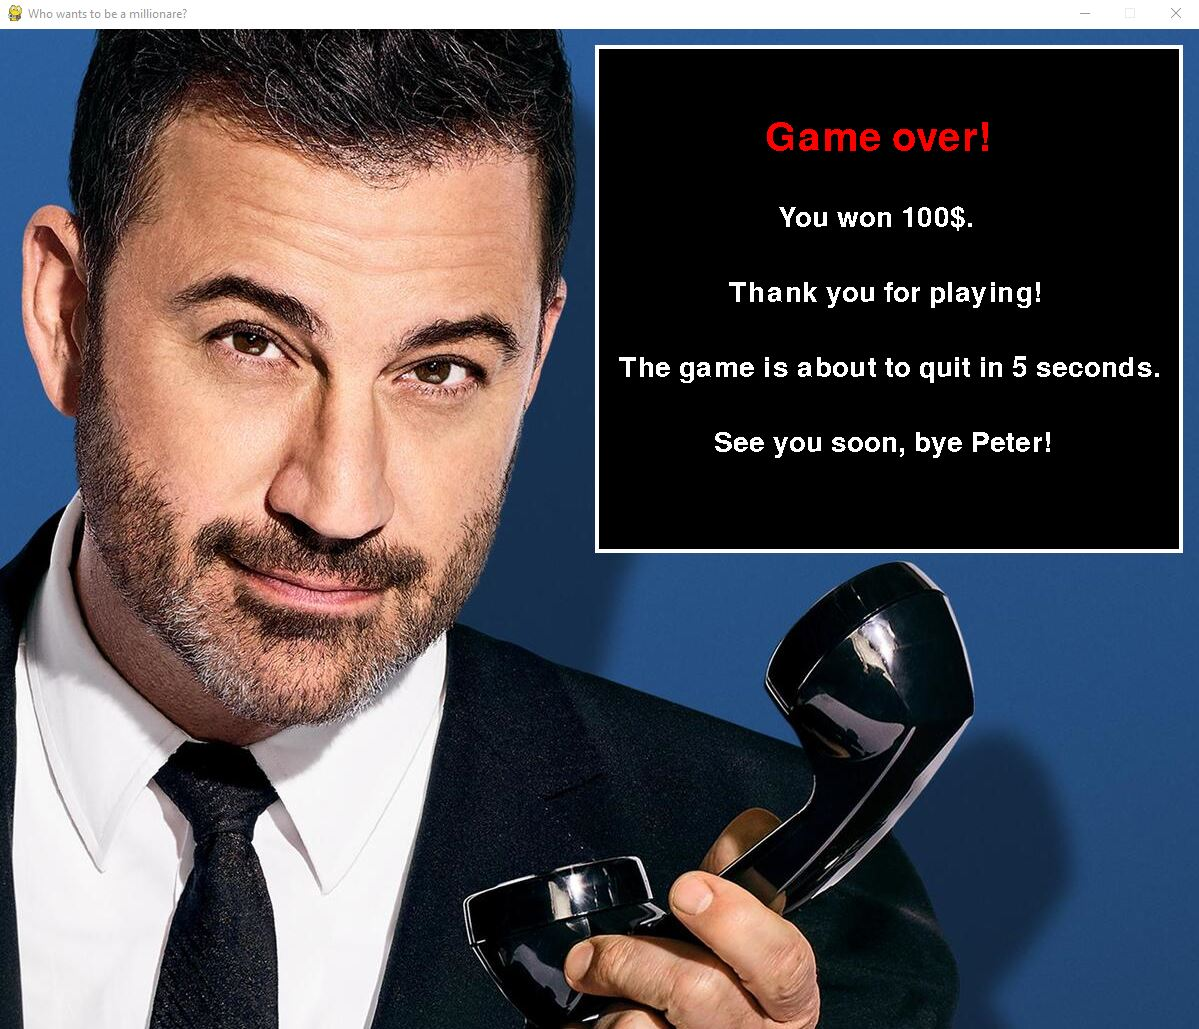
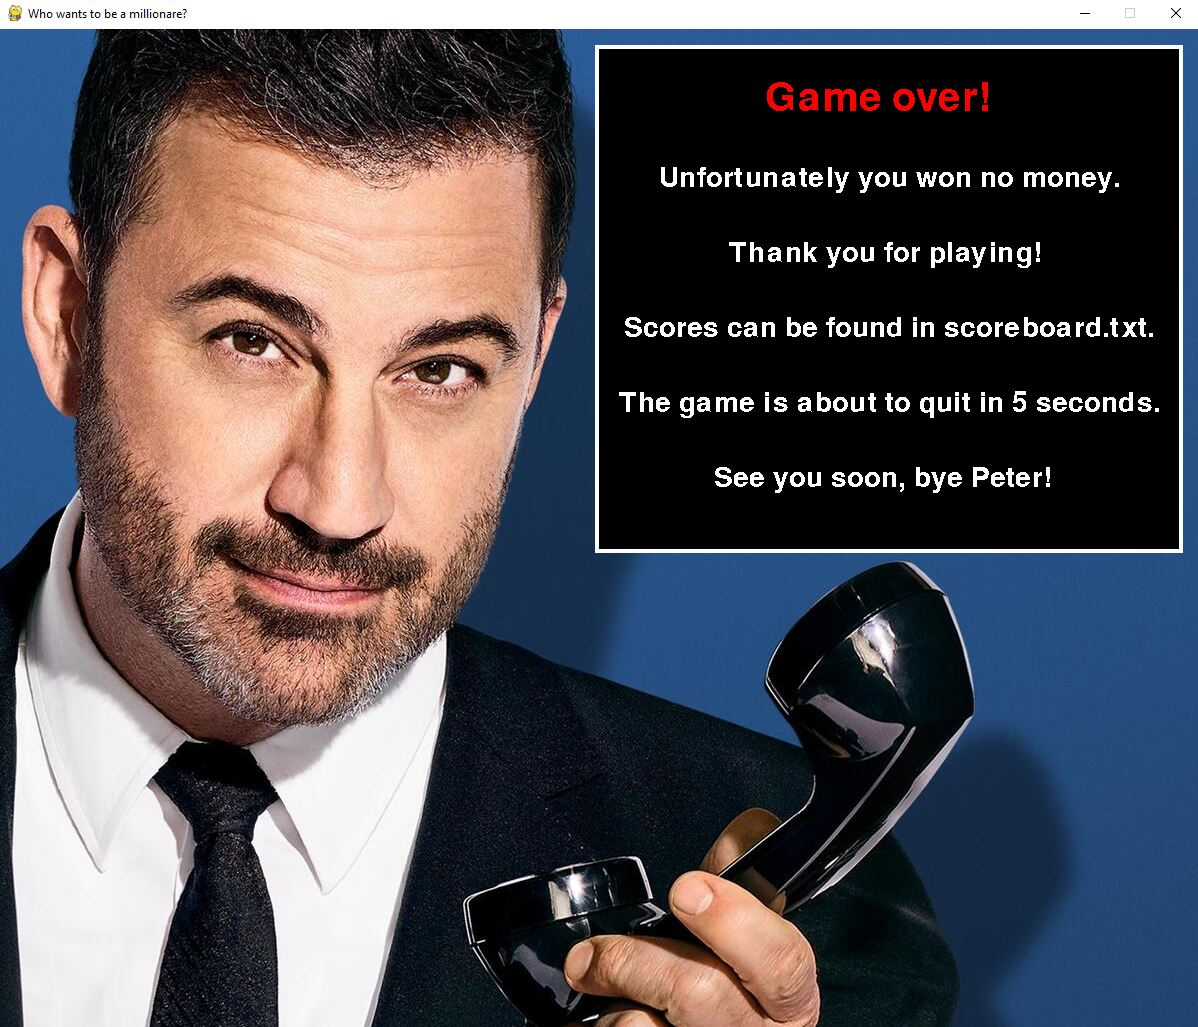
Created scoreboard

diff --git a/screens.py b/screens.py
@@ -4,6 +4,7 @@ from rectangular import *
 from constants import *
 import button
 from blur import blur
+from scoreboard import *
 
 # Pygame has no opportunity to handle the messages it gets from your operation system. To avoid that, you should call pygame.event.pump()
 
@@ -236,6 +237,7 @@ def gameover(screen, money) -> None:
         "Unfortunately you won no money.",
         f"You won {money}$.",
         "Thank you for playing!",
+        "Scores can be found in scoreboard.txt.",
         "The game is about to quit in 5 seconds.",
         f"See you soon, bye {name}!"
     ]
@@ -245,14 +247,19 @@ def gameover(screen, money) -> None:
     end_screen = Rectangular(600, 20, 580, 500, WHITE)
     end_screen.draw(screen)
 
-    create_text(screen, texts[0], (766, 90), 3)
+    create_text(screen, texts[0], (766, 50), 3)
     if money == 0:
-        create_text(screen, texts[1], (660, 175), 2)
+        create_text(screen, texts[1], (660, 135), 2)
     else:
-        create_text(screen, texts[2], (800 - c * 7, 175), 2)
-    create_text(screen, texts[3], (730, 250), 2)
-    create_text(screen, texts[4], (620, 325), 2)
-    create_text(screen, texts[5], (750 - len(name) * 7 , 400), 2)
+        create_text(screen, texts[2], (800 - c * 7, 135), 2)
+    create_text(screen, texts[3], (730, 210), 2)
+    create_text(screen, texts[4], (625, 285), 2)
+    create_text(screen, texts[5], (620, 360), 2)
+    create_text(screen, texts[6], (750 - len(name) * 7 , 435), 2)
+
+    scores = read_scores(scoreboard)
+    add_score(scores, name, money)
+    write_scores(scoreboard, scores)
 
     pygame.time.delay(2000)
     pygame.event.pump()
@@ -267,6 +274,7 @@ def winner(screen, money) -> None:
         "The game has ended. You won!",
         f"Your prize is {money}$.",
         "Thank you for playing!",
+        "Scores can be found in scoreboard.txt.",
         "The game is about to quit in 5 seconds.",
         "See you soon, bye!"
     ]
@@ -274,11 +282,18 @@ def winner(screen, money) -> None:
     end_screen = Rectangular(600, 20, 580, 500, WHITE)
     end_screen.draw(screen)
 
-    create_text(screen, texts[0], (680, 100), 2)
-    create_text(screen, texts[1], (723, 175), 2)
-    create_text(screen, texts[2], (730, 250), 2)
-    create_text(screen, texts[3], (620, 325), 2)
-    create_text(screen, texts[4], (750, 400), 2)
+    c = count_digits(money)
+
+    create_text(screen, texts[0], (660, 50), 2)
+    create_text(screen, texts[1], (775 - c * 7, 135), 2)
+    create_text(screen, texts[2], (730, 210), 2)
+    create_text(screen, texts[3], (625, 285), 2)
+    create_text(screen, texts[4], (620, 360), 2)
+    create_text(screen, texts[5], (750, 435), 2)
+
+    scores = read_scores(scoreboard)
+    add_score(scores, name, money)
+    write_scores(scoreboard, scores)
 
     pygame.time.delay(2000)
     pygame.event.pump()

diff --git a/scoreboard.py b/scoreboard.py
@@ -1,0 +1,23 @@
+from pathlib import Path
+from typing import List
+
+scoreboard = "scoreboard.txt"
+filePath = Path(scoreboard)
+filePath.touch(exist_ok = True)
+
+def read_scores(scoreboard) -> List:
+    scores = []
+    with open(scoreboard, 'r') as file:
+        for line in file:
+            scores.append(line.strip())
+    return scores
+
+def add_score(scores, name, score):
+    new_score = f"{name}: {score}$"
+    scores.append(new_score)
+    scores.sort(key=lambda x: -int(x.split(':')[1].strip('$')))
+
+def write_scores(file_path, scores):
+    with open(file_path, 'w') as file:
+        for score in scores:
+            file.write(score + '\n')
